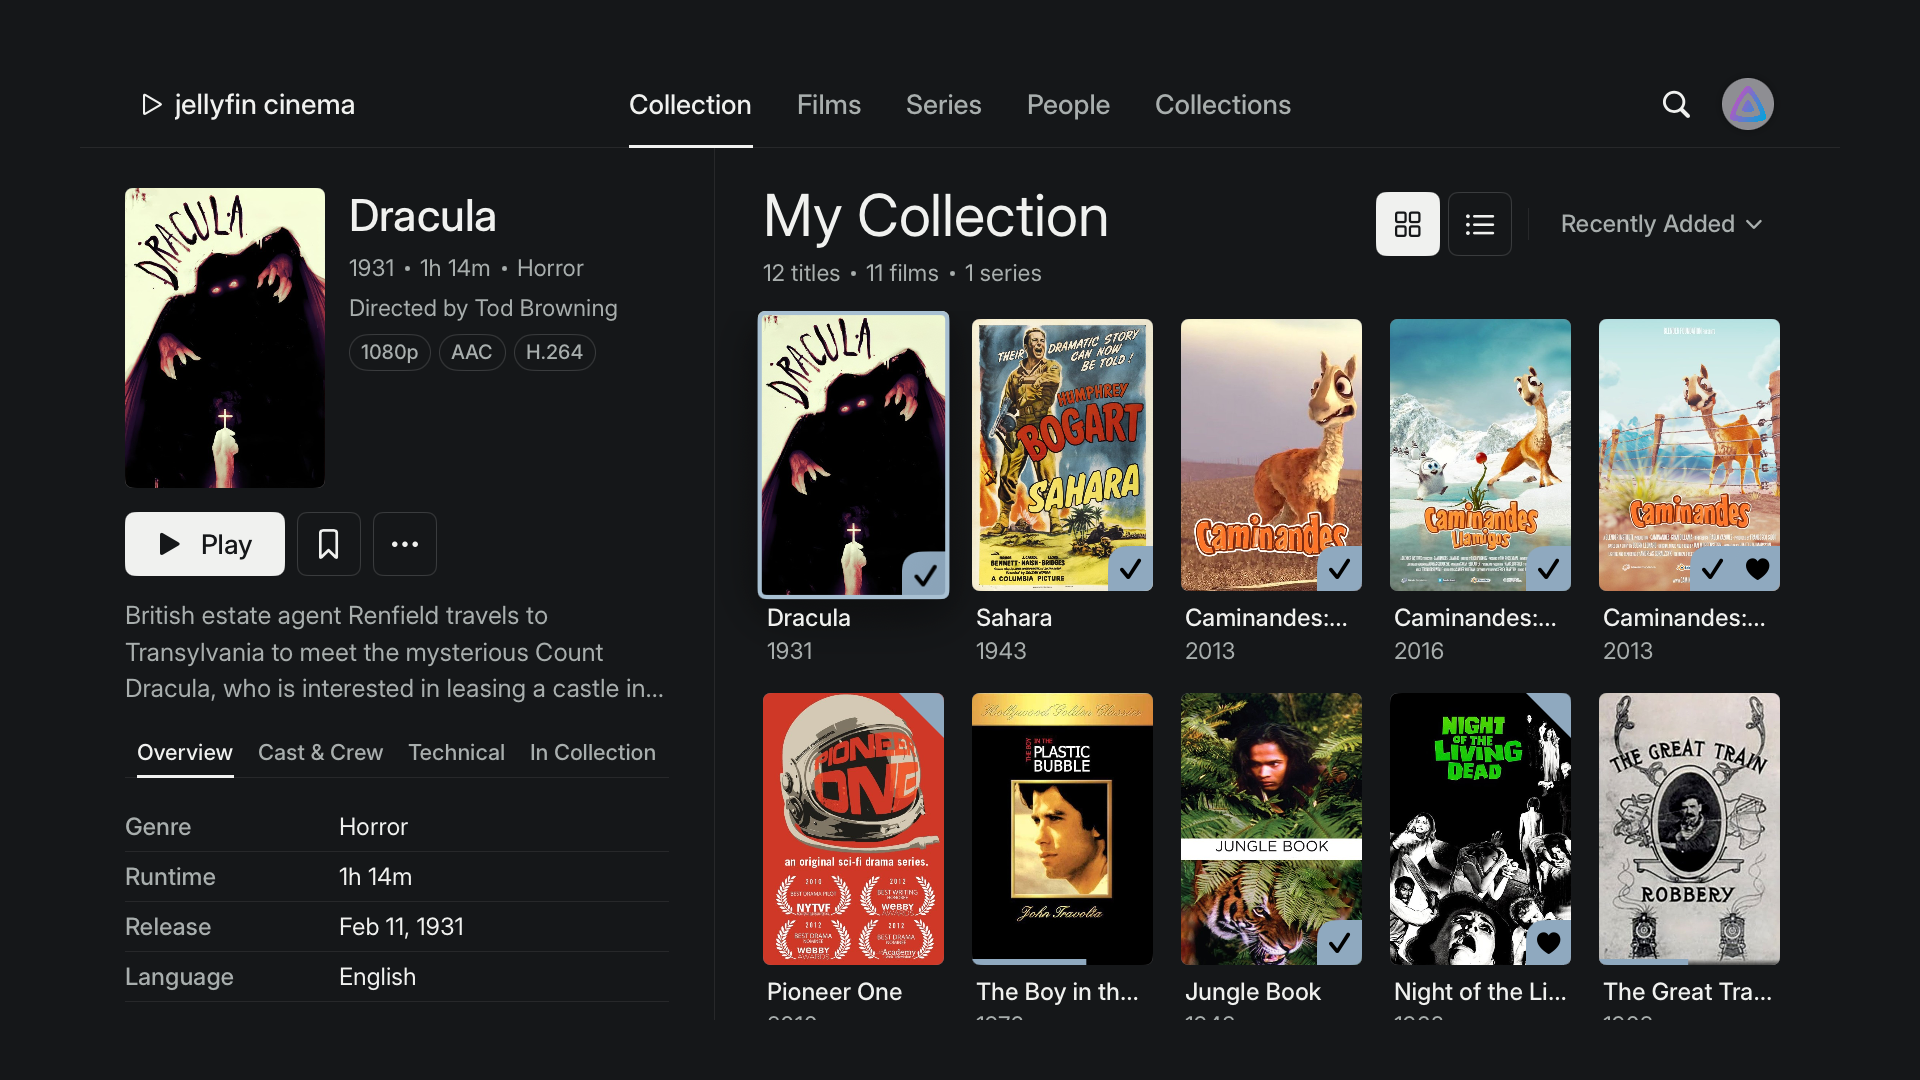
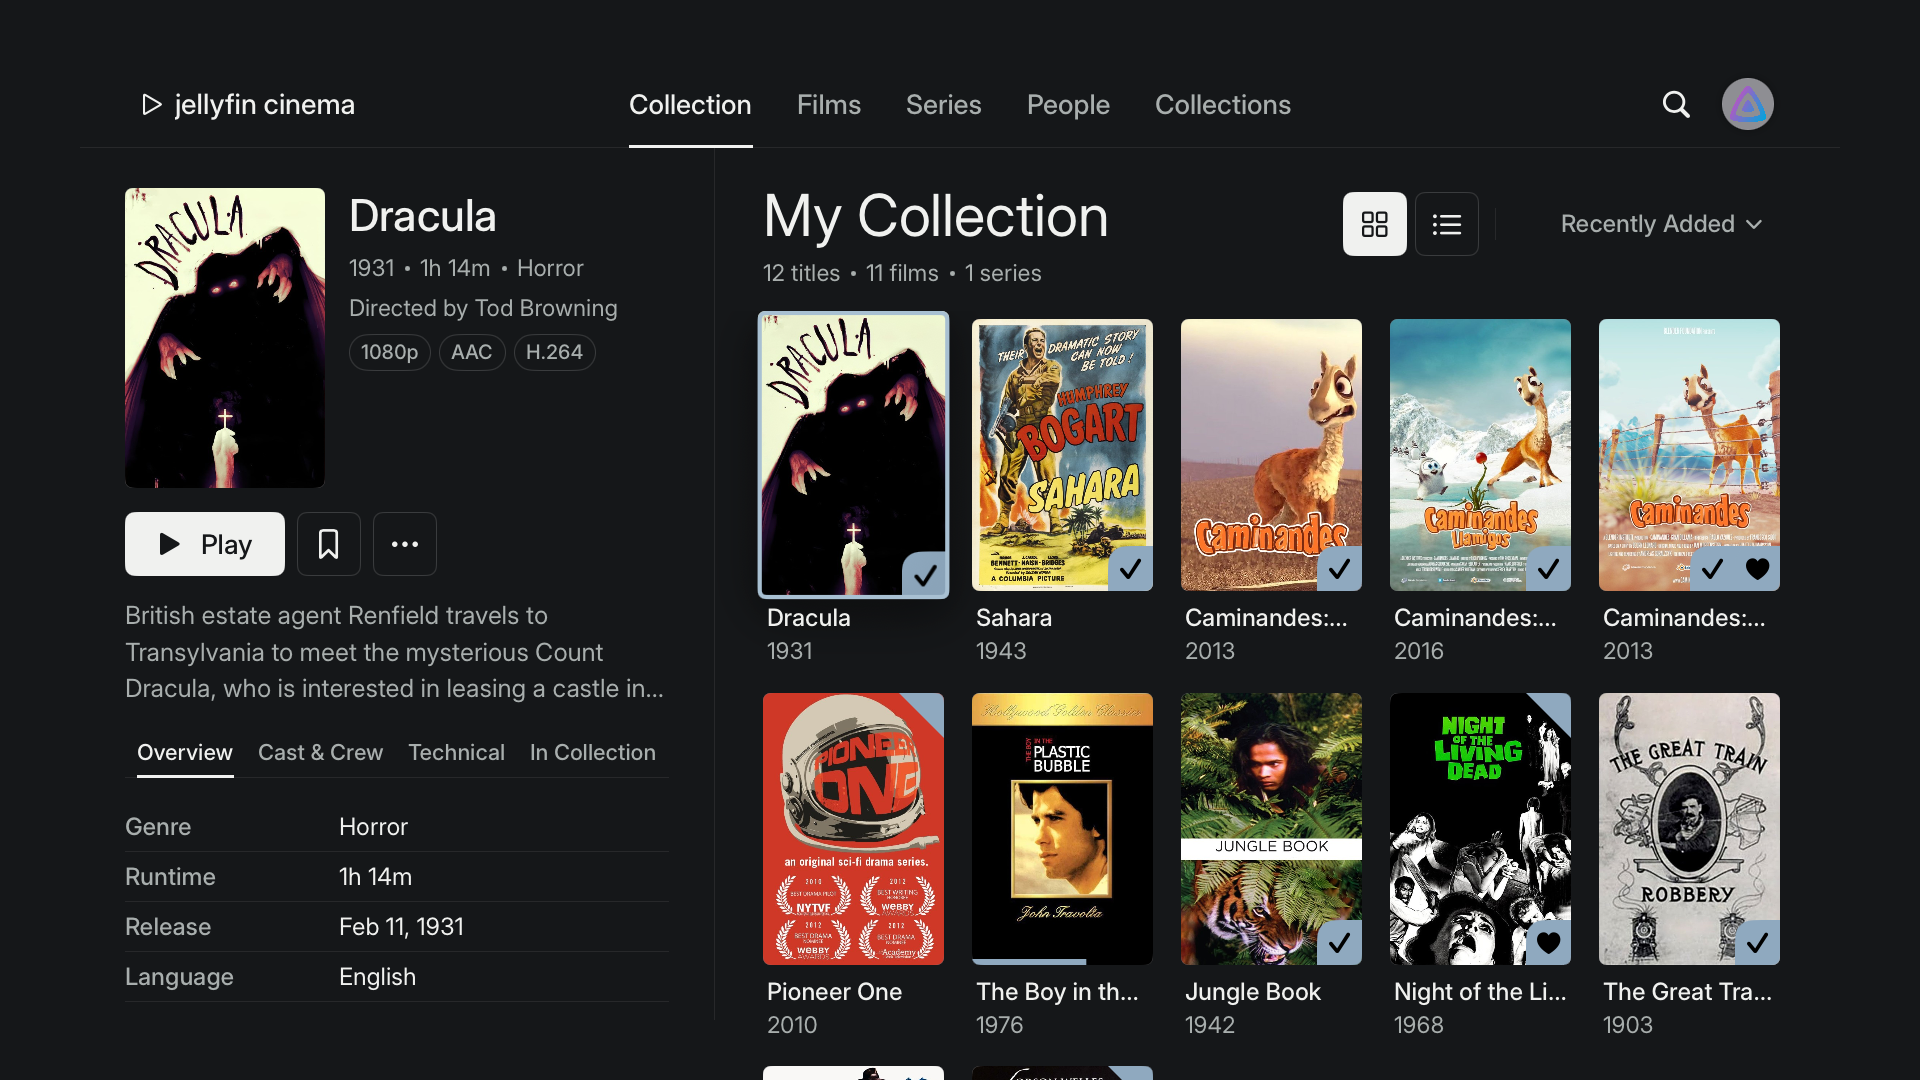
Present search over the current tab and keep focus in the grid
Search opens as a full-screen page so the system search field no longer
draws under the navigation bar. Menu on any bar item other than
Collection returns to Collection. Focus moves to the first poster after
a destination, sort or layout change, with cells taking a pending
request when they appear. The panel lists six people, lets the director
line wrap, item pages start below the TV safe area, the sort control
keeps a fixed width, and the grid extends under the bottom edge.

diff --git a/Swiftfin tvOS/Cinema/CinemaCollectionView.swift b/Swiftfin tvOS/Cinema/CinemaCollectionView.swift
@@ -15,11 +15,6 @@ import SwiftUI
 /// panel; pressing a poster opens the full item page.
 struct CinemaCollectionView<Library: PagingLibrary>: View where Library.Element == ItemEntry {
 
-    private enum Focus: String {
-
-        case firstElement = "cinemaCollection-firstElement"
-    }
-
     @FocusState
     private var isGridFocused: Bool
 
@@ -37,6 +32,8 @@ struct CinemaCollectionView<Library: PagingLibrary>: View where Library.Element 
     @StateObject
     private var focusCoordinator = FocusCoordinator()
     @StateObject
+    private var gridFocus = CinemaGridFocus()
+    @StateObject
     private var gridProxy = CollectionVGridProxy()
     @StateObject
     private var panelViewModel = CinemaDetailPanelViewModel()
@@ -45,8 +42,6 @@ struct CinemaCollectionView<Library: PagingLibrary>: View where Library.Element 
 
     @State
     private var displayType: LibraryDisplayType = .grid
-    @State
-    private var hasRequestedInitialFocus = false
     @State
     private var sortOption: CinemaSortOption?
 
@@ -117,16 +112,24 @@ struct CinemaCollectionView<Library: PagingLibrary>: View where Library.Element 
         .onChange(of: viewModel.elements) {
             selectFirstElementIfNeeded()
         }
+        .onChange(of: viewModel.state) {
+            if viewModel.state == .content {
+                requestGridFocus()
+            }
+        }
         .onChange(of: viewModel.environment) {
             viewModel.refreshForEnvironmentChange()
         }
         .onChange(of: displayType) {
             gridProxy.redraw()
+            requestGridFocus()
         }
         .onReceive(tabItemSelected) { event in
             if event.isRepeat, event.isRoot {
                 gridProxy.scrollToTop(animated: true)
             }
+
+            requestGridFocus()
         }
         .onFirstAppear {
             sortOption = initialSort
@@ -218,6 +221,7 @@ struct CinemaCollectionView<Library: PagingLibrary>: View where Library.Element 
                 Image(systemName: "chevron.down")
                     .font(.system(size: 18, weight: .semibold))
             }
+            .frame(minWidth: 236, alignment: .trailing)
         }
         .menuStyle(.button)
         .buttonStyle(CinemaTextButtonStyle())
@@ -294,8 +298,8 @@ struct CinemaCollectionView<Library: PagingLibrary>: View where Library.Element 
             element(entry)
                 .if(entry.id == viewModel.displayedElements.first?.id) { view in
                     view
-                        .coordinatedFocus(Focus.firstElement.rawValue)
-                        .environmentObject(focusCoordinator)
+                        .cinemaFirstElementFocus()
+                        .environmentObject(gridFocus)
                 }
         }
         .onReachedBottomEdge(offset: .offset(300)) {
@@ -304,6 +308,7 @@ struct CinemaCollectionView<Library: PagingLibrary>: View where Library.Element 
         .proxy(gridProxy)
         .contentInsetAdjustmentBehavior(.never)
         .scrollIndicators(.hidden)
+        .ignoresSafeArea(.container, edges: .bottom)
     }
 
     @ViewBuilder
@@ -333,24 +338,20 @@ struct CinemaCollectionView<Library: PagingLibrary>: View where Library.Element 
     }
 
     private func selectFirstElementIfNeeded() {
-        guard let first = viewModel.elements.first else { return }
+        guard panelViewModel.item == nil, let first = viewModel.elements.first else { return }
 
-        if panelViewModel.item == nil {
-            panelViewModel.select(first.snapshot)
-        }
-
-        requestInitialFocusIfNeeded()
+        panelViewModel.select(first.snapshot)
     }
 
-    /// Moves focus to the first poster once the grid has laid it out.
-    private func requestInitialFocusIfNeeded() {
-        guard !hasRequestedInitialFocus else { return }
-
-        hasRequestedInitialFocus = true
-
+    /// Moves focus to the first poster once the grid has laid it out: after the
+    /// screen is selected, after a sort change, and after a layout change.
+    private func requestGridFocus() {
         Task { @MainActor in
             try? await Task.sleep(for: .milliseconds(250))
-            focusCoordinator.focus(Focus.firstElement.rawValue)
+
+            guard viewModel.state == .content, viewModel.displayedElements.isNotEmpty else { return }
+
+            gridFocus.requestFirstElement()
         }
     }
 

diff --git a/Swiftfin tvOS/Cinema/CinemaNavigationBar.swift b/Swiftfin tvOS/Cinema/CinemaNavigationBar.swift
@@ -20,6 +20,16 @@ struct CinemaNavigationBar: View {
     @Binding
     var selection: String?
     let focus: FocusState<String?>.Binding
+    let onSearch: () -> Void
+
+    /// Menu on anything but the first destination returns to it, so the
+    /// landing screen is always one press away; Menu there leaves the app.
+    private func returnToFirstDestination() {
+        guard let first = items.first?.id, selection != first else { return }
+
+        selection = first
+        focus.wrappedValue = first
+    }
 
     private var brand: some View {
         HStack(spacing: Cinema.Spacing.s12) {
@@ -34,13 +44,31 @@ struct CinemaNavigationBar: View {
         .accessibilityElement(children: .combine)
     }
 
+    @ViewBuilder
     private func navigationButton(_ item: TabItem) -> some View {
-        Button(item.displayTitle) {
+        let button = Button(item.displayTitle) {
             selection = item.id
         }
         .buttonStyle(CinemaUnderlineButtonStyle(isSelected: selection == item.id, fillsHeight: true))
         .focused(focus, equals: item.id)
         .accessibilityAddTraits(selection == item.id ? .isSelected : [])
+
+        if item.id == items.first?.id {
+            button
+        } else {
+            button
+                .onExitCommand(perform: returnToFirstDestination)
+        }
+    }
+
+    private var searchButton: some View {
+        Button(action: onSearch) {
+            Image(systemName: "magnifyingglass")
+        }
+        .buttonStyle(CinemaIconButtonStyle(isBordered: false))
+        .focused(focus, equals: CinemaShellView.searchTabID)
+        .accessibilityLabel(L10n.search)
+        .onExitCommand(perform: returnToFirstDestination)
     }
 
     private func utilityButton(_ item: TabItem) -> some View {
@@ -63,6 +91,7 @@ struct CinemaNavigationBar: View {
         .focused(focus, equals: item.id)
         .accessibilityLabel(item.displayTitle)
         .accessibilityAddTraits(selection == item.id ? .isSelected : [])
+        .onExitCommand(perform: returnToFirstDestination)
     }
 
     var body: some View {
@@ -80,6 +109,8 @@ struct CinemaNavigationBar: View {
 
             HStack(spacing: Cinema.Spacing.s8) {
                 Spacer()
+
+                searchButton
 
                 ForEach(utilityItems, id: \.id) { item in
                     utilityButton(item)

diff --git a/Swiftfin tvOS/Cinema/CinemaGridFocus.swift b/Swiftfin tvOS/Cinema/CinemaGridFocus.swift
@@ -1,0 +1,80 @@
+//
+// Swiftfin is subject to the terms of the Mozilla Public
+// License, v2.0. If a copy of the MPL was not distributed with this
+// file, you can obtain one at https://mozilla.org/MPL/2.0/.
+//
+// Copyright (c) 2026 Jellyfin & Jellyfin Contributors
+//
+
+import SwiftUI
+
+/// Moves focus to the first element of a collection grid on request.
+///
+/// Grid cells live in their own hosting views and are created after the
+/// data arrives, so a focus state set while a cell is being inserted is
+/// ignored by the focus system. Each request carries a token; the first
+/// cell takes it either when the token changes or, if the cell is created
+/// after the request, when it appears. It clears its focus before taking
+/// it, which guarantees a transition the focus system acts on.
+@MainActor
+final class CinemaGridFocus: ObservableObject {
+
+    @Published
+    private(set) var token: UUID?
+
+    private(set) var consumedToken: UUID?
+
+    var hasPendingRequest: Bool {
+        guard let token else { return false }
+
+        return token != consumedToken
+    }
+
+    func requestFirstElement() {
+        token = UUID()
+    }
+
+    func consume() {
+        consumedToken = token
+    }
+}
+
+private struct CinemaFirstElementFocusModifier: ViewModifier {
+
+    @EnvironmentObject
+    private var gridFocus: CinemaGridFocus
+
+    @FocusState
+    private var isFocused: Bool
+
+    private func takeFocus() {
+        gridFocus.consume()
+        isFocused = false
+
+        Task { @MainActor in
+            try? await Task.sleep(for: .milliseconds(50))
+            isFocused = true
+        }
+    }
+
+    func body(content: Content) -> some View {
+        content
+            .focused($isFocused)
+            .onChange(of: gridFocus.token) {
+                takeFocus()
+            }
+            .onAppear {
+                if gridFocus.hasPendingRequest {
+                    takeFocus()
+                }
+            }
+    }
+}
+
+extension View {
+
+    /// Marks the first element of a grid as the target of `CinemaGridFocus` requests.
+    func cinemaFirstElementFocus() -> some View {
+        modifier(CinemaFirstElementFocusModifier())
+    }
+}

diff --git a/Swiftfin tvOS/Cinema/CinemaDetailPanel.swift b/Swiftfin tvOS/Cinema/CinemaDetailPanel.swift
@@ -124,7 +124,8 @@ struct CinemaDetailPanel: View {
                     Text(L10n.directedBy(director))
                         .font(Cinema.Typography.meta)
                         .foregroundStyle(Cinema.Palette.secondaryText)
-                        .lineLimit(1)
+                        .lineLimit(2)
+                        .fixedSize(horizontal: false, vertical: true)
                 }
 
                 let chips = CinemaMediaFormat.chips(for: item.mediaSources?.first)
@@ -399,7 +400,7 @@ struct CinemaDetailPanel: View {
     }
 
     private func castAndCrew(for item: BaseItemDto) -> some View {
-        let people = Array((item.mergedPeople ?? []).prefix(Self.maximumRows * 2))
+        let people = Array((item.mergedPeople ?? []).prefix(6))
         let columns = [
             GridItem(.flexible(), spacing: Cinema.Spacing.s24, alignment: .topLeading),
             GridItem(.flexible(), spacing: Cinema.Spacing.s24, alignment: .topLeading),

diff --git a/Swiftfin tvOS/Cinema/CinemaShellView.swift b/Swiftfin tvOS/Cinema/CinemaShellView.swift
@@ -16,8 +16,8 @@ import SwiftUI
 /// to it restores its scroll position and selection without reloading.
 struct CinemaShellView: View {
 
-    /// Identifiers of the tabs shown as icons at the trailing edge of the bar.
-    /// They match the identifiers declared on `TabItem.search` and `TabItem.settings`.
+    /// The focus identifier of the bar's search button, and the identifier of
+    /// the settings tab, which matches the one declared on `TabItem.settings`.
     static let searchTabID = "search"
     static let settingsTabID = "settings"
 
@@ -63,7 +63,9 @@ struct CinemaShellView: View {
                 utilityItems: utilityItems,
                 selection: $tabCoordinator.selectedTabID,
                 focus: $focusedNavigationItem
-            )
+            ) {
+                Task { await tabCoordinator.route(to: .cinemaSearch) }
+            }
 
             ZStack {
                 ForEach(tabCoordinator.tabs, id: \.item.id) { tab in

diff --git a/Swiftfin tvOS/Cinema/CinemaTabItems.swift b/Swiftfin tvOS/Cinema/CinemaTabItems.swift
@@ -9,6 +9,17 @@
 import JellyfinAPI
 import SwiftUI
 
+extension NavigationRoute {
+
+    /// Search is presented over the current tab so the system search
+    /// field keeps the whole screen, as it does elsewhere on tvOS.
+    static var cinemaSearch: NavigationRoute {
+        NavigationRoute(id: "cinema-search") {
+            SearchView()
+        }
+    }
+}
+
 /// The destinations in the Cinema navigation bar.
 extension TabItem {
 

diff --git a/Swiftfin tvOS/Cinema/CinemaItemHeaderContentGroup.swift b/Swiftfin tvOS/Cinema/CinemaItemHeaderContentGroup.swift
@@ -151,7 +151,7 @@ extension ItemView {
                 }
                 .focusSection()
                 .padding(.horizontal, Cinema.Layout.edgePadding)
-                .padding(.top, Cinema.Spacing.s48)
+                .padding(.top, Cinema.Layout.edgePadding + Cinema.Spacing.s24)
                 .frame(maxWidth: .infinity, alignment: .topLeading)
             }
         }

diff --git a/Shared/Coordinators/Tabs/MainTabView.swift b/Shared/Coordinators/Tabs/MainTabView.swift
@@ -39,7 +39,6 @@ struct MainTabView: View {
             TabItem.cinemaSeries
             TabItem.cinemaPeople
             TabItem.cinemaCollections
-            TabItem.search
             TabItem.settings
         }
         #endif

diff --git a/Documentation/cinema.md b/Documentation/cinema.md
@@ -10,11 +10,13 @@ permissions) is untouched, and the iOS app is unchanged.
 
 ## What the Apple TV app looks like
 
+![The Collection screen on Apple TV](screenshots/tvos-collection.png)
+
 | Screen | What you see |
 |---|---|
 | Collection (landing) | A split view. Left: the selected title's poster, title, year · runtime · genre, director, format chips (4K UHD, HDR10, Dolby Atmos…), Play / favourite / more, synopsis, and tabs: Overview, Cast & Crew, Technical, In Collection. Right: "My Collection" with title counts, grid/list toggle, a sort menu, and the poster grid with title and year beneath each poster. Moving focus through the grid updates the panel; pressing a poster opens the full item page. |
 | Films, Series, Collections, People | The same split view filtered to one kind. |
-| Search, profile | Icons at the trailing edge of the navigation bar. Profile opens Settings. |
+| Search, profile | Icons at the trailing edge of the navigation bar. Search opens Jellyfin's search page over the current screen; profile opens Settings. |
 | Item page | The original poster beside the title, metadata, format chips, tagline, synopsis and the playback controls, on a flat background, followed by Jellyfin's cast, genre, similar-title and about sections. |
 | Playback | Unchanged. |
 
@@ -63,8 +65,8 @@ New code is confined to `Swiftfin tvOS/Cinema/` and is only compiled for tvOS.
 | File | Role |
 |---|---|
 | `CinemaTheme.swift`, `CinemaFont.swift` | Tokens and the Inter loader (`wght` and `opsz` axes). |
-| `CinemaShellView.swift`, `CinemaNavigationBar.swift` | The persistent navigation bar above a `TabView` whose system bar is hidden. Tabs keep their own navigation coordinators, so deep links, pushes and playback behave as before. Menu at a tab root moves focus to the bar; Menu on the bar leaves the app, as with the system bar. |
-| `CinemaTabItems.swift` | The destinations: Collection, Films, Series, People, Collections, plus the existing Search and Settings tabs. |
+| `CinemaShellView.swift`, `CinemaNavigationBar.swift` | The persistent navigation bar above the selected tab. Tabs are created the first time they are selected and then kept alive, each with its own navigation coordinator, so deep links, pushes and playback behave as before. Menu at a tab root moves focus to the bar; Menu on any bar item other than Collection returns to Collection; Menu on Collection leaves the app, as with the system bar. Selecting a destination moves focus to its first poster, as the system bar does. |
+| `CinemaTabItems.swift` | The destinations: Collection, Films, Series, People, Collections, the Settings tab behind the profile image, and the search route presented from the bar. |
 | `CinemaCollectionView.swift` | The split view over Jellyfin's `PagingLibraryViewModel`: paging, sorting and refresh are the existing library machinery. |
 | `CinemaDetailPanel.swift`, `CinemaDetailPanelViewModel.swift` | The selected-item panel. The panel first shows what the grid already knows, then fetches the full item (overview, people, media streams) 300 ms after focus settles and resolves what Play would start, including the next episode of a series. Favourite and played toggles go through the shared item store. |
 | `CinemaPosterCell.swift`, `CinemaListRow.swift` | Grid and list cells with the Cinema focus treatment. Watched and progress indicators remain available through the poster indicator settings. |
@@ -92,6 +94,20 @@ New strings: `directedBy`, `films`, `filmsWithCount`, `seriesWithCount`, `collec
 - People cannot be re-sorted; the server returns them by name.
 - Jellyfin's filter drawer (genre, year, rating filters) is not shown on the collection
   screen; sorting is. The filters remain on library pages opened from an item.
+
+## Verification
+
+Checked on the Apple TV 4K (1080p) simulator, tvOS 27.0, signed in to the public Jellyfin demo
+server (Jellyfin 12.4): sign-in, the Collection, Films, Series, People and Collections screens,
+grid and list layouts, every sort option, the panel's four tabs and its Play, favourite and menu
+controls, the film and series pages and their sections, Search, Settings, and Menu behaviour at
+every level. Focus moves into the grid after a destination is chosen, after a sort change and
+after a layout change, as it does with the system tab bar; Menu from a grid moves focus to the
+bar, Menu on any bar item other than Collection returns to Collection, and Menu on Collection
+leaves the app. Playback itself was not exercised in the simulator.
+
+Visited tabs stay alive behind the selected one so returning to them keeps their scroll position
+and selection; this is the same cost the system tab bar incurs.
 
 ## Building
 
